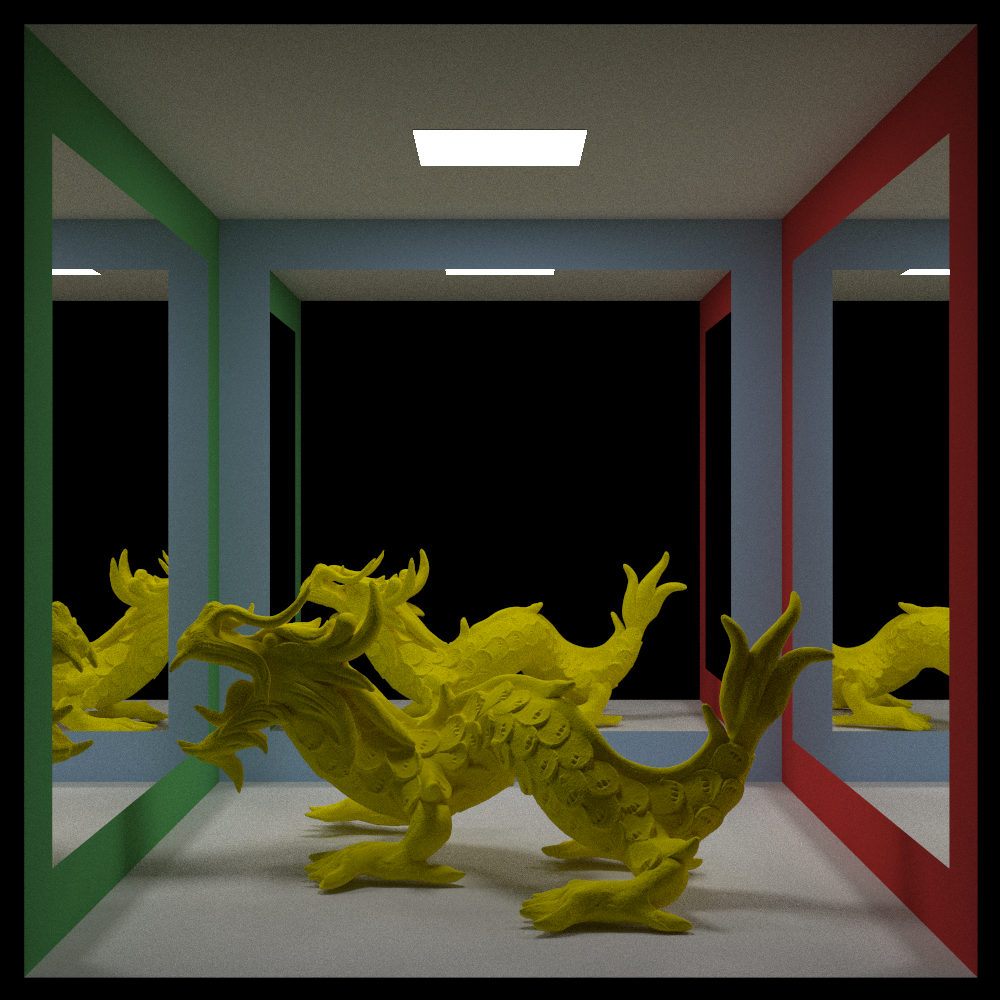
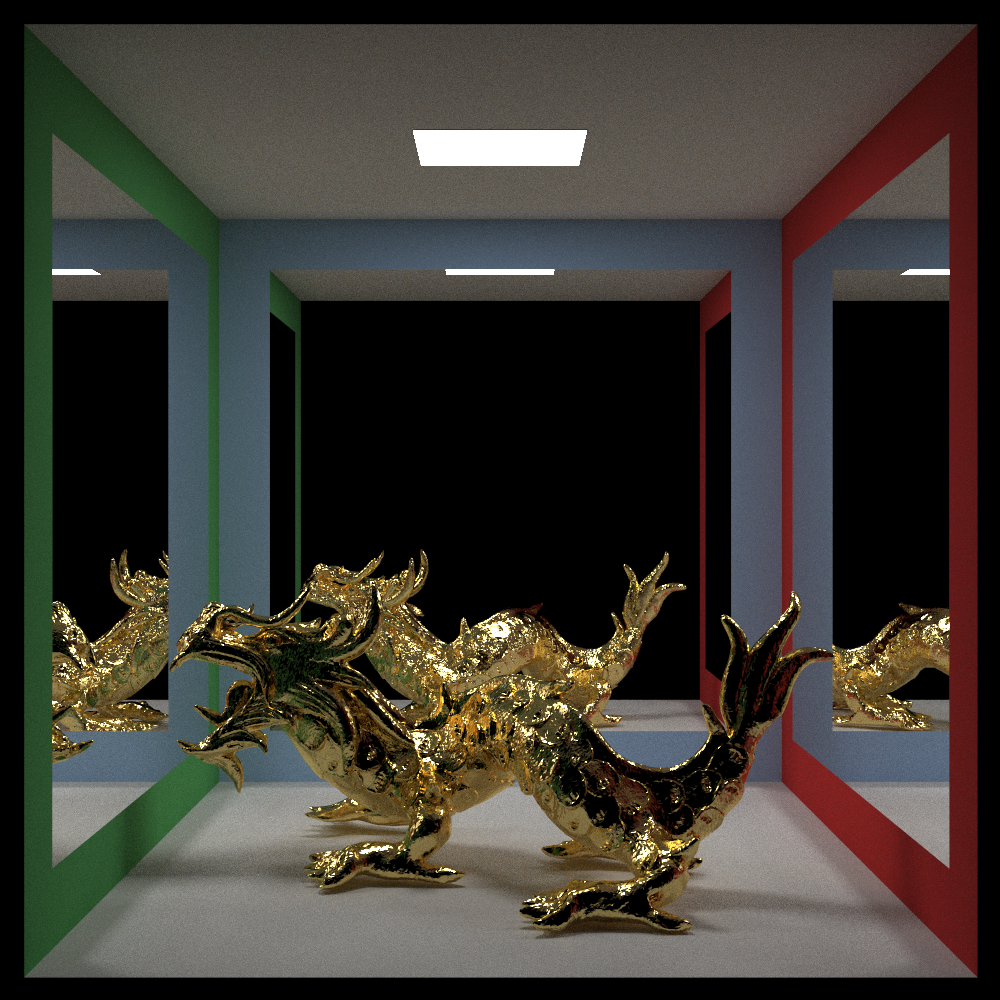
Rework the multi-model and dragon scenes

Changed region(s): [[0.031, 0.558, 0.961, 0.93]]

diff --git a/src/main.cpp b/src/main.cpp
@@ -12,6 +12,28 @@ namespace scenes
 using std::make_shared;
 using std::shared_ptr;
 
+/*
+ * Load a model, stand it `height` tall with the middle of its base at `base_center`, and
+ * return it in its own BVH. `tilt_x` turns about x first (for models stored Z-up), then
+ * `turn_y` turns it about the vertical axis to face the camera.
+ */
+shared_ptr<rt::hittable> load_model(const std::string& filename, shared_ptr<rt::material> material,
+                                    float height, const rt::point3f& base_center,
+                                    float turn_y = 0.0f, float tilt_x = 0.0f)
+{
+    auto mesh = rt::load_obj(filename, material);
+    if (tilt_x != 0.0f)
+    {
+        rt::rotate_mesh(*mesh, 0, tilt_x);
+    }
+    if (turn_y != 0.0f)
+    {
+        rt::rotate_mesh(*mesh, 1, turn_y);
+    }
+    rt::place_mesh(*mesh, height, base_center);
+    return make_shared<rt::bvh_node>(mesh->objects, 0, mesh->objects.size());
+}
+
 void spheres_scene(const std::filesystem::path& output_directory)
 {
     rt::hittable_list world;
@@ -529,7 +551,7 @@ void dragon(const std::filesystem::path& output_directory)
                                     rt::vec3f(0, 455, 0), mirror)); // back wall (z = 555)
 
     // Dragon model
-    auto dragon_material = make_shared<rt::lambertian>(rt::color(0.9, 0.8, 0));
+    auto dragon_material = make_shared<rt::metal>(rt::color(0.95, 0.75, 0.30), 0.1f);
     auto dragon_mesh     = rt::load_obj("model/dragon.obj", dragon_material);
     rt::transform_mesh(*dragon_mesh, 2.4f, rt::vec3f(278, 100, 210));
     world.add(make_shared<rt::bvh_node>(dragon_mesh->objects, 0, dragon_mesh->objects.size()));
@@ -558,6 +580,7 @@ void dragon(const std::filesystem::path& output_directory)
     camera.render(world, lights);
 }
 
+// Cornell box with Suzanne and the teapot on two turned cubes and the cow on the floor
 void multiple_models(const std::filesystem::path& output_directory)
 {
     rt::hittable_list world;
@@ -581,44 +604,29 @@ void multiple_models(const std::filesystem::path& output_directory)
     world.add(make_shared<rt::quad>(rt::point3f(0, 0, 555), rt::vec3f(555, 0, 0),
                                     rt::vec3f(0, 555, 0), white));
 
-    // left box
-    shared_ptr<rt::hittable> left_box =
-        box(rt::point3f(0, 0, 0), rt::point3f(165, 165, 165), white);
-    left_box = make_shared<rt::rotate_y>(left_box, 15.0f);
-    left_box = make_shared<rt::translate>(left_box, rt::vec3f(285, 0, 295));
-    world.add(left_box);
+    // A cube of the given size standing on the floor and turned by `degrees`; returns the middle
+    // of its top face, where a model can be placed
+    auto add_cube = [&](float center_x, float center_z, float size, float degrees)
+    {
+        const float half = size / 2;
+        shared_ptr<rt::hittable> cube =
+            rt::box(rt::point3f(-half, 0, -half), rt::point3f(half, size, half), white);
+        cube = make_shared<rt::rotate_y>(cube, degrees);
+        cube = make_shared<rt::translate>(cube, rt::vec3f(center_x, 0, center_z));
+        world.add(cube);
+        return rt::point3f(center_x, size, center_z);
+    };
 
-    // right box
-    shared_ptr<rt::hittable> right_box =
-        box(rt::point3f(0, 0, 0), rt::point3f(165, 165, 165), white);
-    right_box = make_shared<rt::rotate_y>(right_box, -18.0f);
-    right_box = make_shared<rt::translate>(right_box, rt::vec3f(130, 0, 65));
-    world.add(right_box);
+    auto yellow      = make_shared<rt::lambertian>(rt::color(0.9, 0.8, 0));
+    auto suzanne_top = add_cube(385, 355, 165, 15.0f);
+    world.add(load_model("model/suzanne.obj", yellow, 95, suzanne_top, 200.0f));
 
-    // Suzanne model
-    auto suzanne_material = make_shared<rt::lambertian>(rt::color(0.9, 0.8, 0));
-    auto suzanne          = rt::load_obj("model/suzanne.obj", suzanne_material);
-    rt::transform_mesh(*suzanne, 80.0f, rt::vec3f(110, 165, -450));
-    auto suzanne_bvh     = make_shared<rt::bvh_node>(suzanne->objects, 0, suzanne->objects.size());
-    auto suzanne_rotated = make_shared<rt::rotate_y>(suzanne_bvh, 200);
-    auto suzanne_final   = make_shared<rt::translate>(suzanne_rotated, rt::vec3f(278, 0, 278));
-    world.add(suzanne_final);
+    auto grey       = make_shared<rt::lambertian>(rt::color(0.8, 0.8, 0.8));
+    auto teapot_top = add_cube(185, 170, 165, -18.0f);
+    world.add(load_model("model/teapot.obj", grey, 90, teapot_top, 20.0f));
 
-    // Tea pot
-    auto teapot_material = make_shared<rt::lambertian>(rt::color(0.8, 0.8, 0.8));
-    auto teapot          = rt::load_obj("model/teapot.obj", teapot_material);
-    rt::transform_mesh(*teapot, 40.0f, rt::vec3f(185, 160, 220));
-    auto teapot_bvh = make_shared<rt::bvh_node>(teapot->objects, 0, teapot->objects.size());
-    world.add(teapot_bvh);
-
-    // Spot the cow
-    auto spot_material = make_shared<rt::lambertian>(rt::color(0, 0.8, 0.9));
-    auto spot          = rt::load_obj("model/spot.obj", spot_material);
-    rt::transform_mesh(*spot, 90.0f, rt::vec3f(420, 60, 80));
-    auto spot_bvh     = make_shared<rt::bvh_node>(spot->objects, 0, spot->objects.size());
-    auto spot_rotated = make_shared<rt::rotate_y>(spot_bvh, 45.0f);
-    auto spot_final   = make_shared<rt::translate>(spot_rotated, rt::vec3f(65, 0, 290));
-    world.add(spot_final);
+    auto cyan = make_shared<rt::lambertian>(rt::color(0, 0.8, 0.9));
+    world.add(load_model("model/spot.obj", cyan, 100, rt::point3f(420, 0, 70), -35.0f));
 
     // Top-level BVH
     world = rt::hittable_list(make_shared<rt::bvh_node>(world));
@@ -642,28 +650,6 @@ void multiple_models(const std::filesystem::path& output_directory)
     camera.output_directory  = output_directory;
     camera.defocus_angle     = 0;
     camera.render(world, lights);
-}
-
-/*
- * Load a model, stand it `height` tall with the middle of its base at `base_center`, and
- * return it in its own BVH. `tilt_x` turns about x first (for models stored Z-up), then
- * `turn_y` turns it about the vertical axis to face the camera.
- */
-shared_ptr<rt::hittable> load_model(const std::string& filename, shared_ptr<rt::material> material,
-                                    float height, const rt::point3f& base_center,
-                                    float turn_y = 0.0f, float tilt_x = 0.0f)
-{
-    auto mesh = rt::load_obj(filename, material);
-    if (tilt_x != 0.0f)
-    {
-        rt::rotate_mesh(*mesh, 0, tilt_x);
-    }
-    if (turn_y != 0.0f)
-    {
-        rt::rotate_mesh(*mesh, 1, turn_y);
-    }
-    rt::place_mesh(*mesh, height, base_center);
-    return make_shared<rt::bvh_node>(mesh->objects, 0, mesh->objects.size());
 }
 
 // Three statues on marble pedestals under spotlights: stone Lucy, a gold Buddha, a bronze bust

diff --git a/README.md b/README.md
@@ -4,11 +4,11 @@ An optimized implementation of Peter Shirley’s classic ray tracing (actually p
 ### Preview:
 
 ![Final scene](images/final_scene.png)
-![Cornell Box](images/merge_cornell.png)
-![Cornell Box](images/metal_teapot.png)
+![Cornell Box](images/neon_stage.png)
+![Cornell Box](images/sculpture_gallery.png)
 ![Cornell Box](images/dragon.png)
-![Perlin Sphere](images/light.png)
-![Spheres](images/spheres.png)
+![Perlin Sphere](images/bunny_campfire.png)
+
 
 ## Features Added
 
